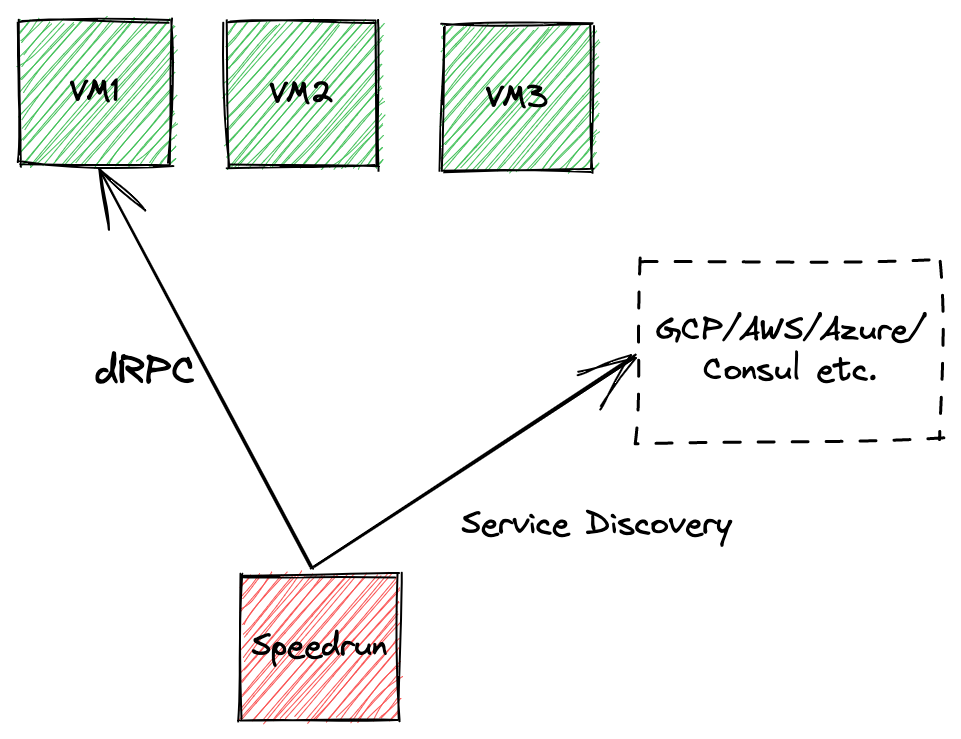
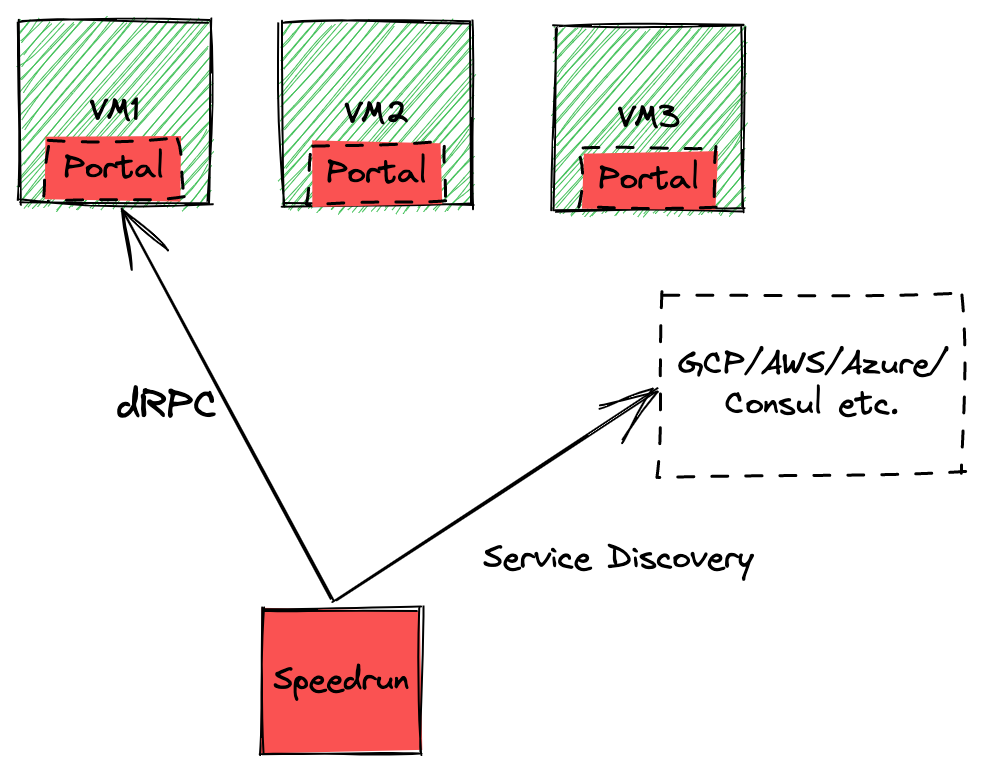
Update documentation and build configuration

diff --git a/README.md b/README.md
@@ -32,7 +32,7 @@ This project satisfies a simple need: to be able to perform certain type of oper
 
 ## Installation
 
-#### MacOS, Linux, Windows
+#### MacOS, Linux
 
 Download the precompiled binaries from here: [Releases](https://github.com/dpogorzelski/speedrun/releases)
 
@@ -63,12 +63,12 @@ speedrun run whoami --insecure
 </p>
 
 #### Speedrun
-Speedrun is the client. Speedrun is the CLI tool you run on your computer to send commands to your servers.
+Speedrun is the client. Speedrun is the CLI tool you run on your computer to send commands to your VMs.
 
 #### Portal
 Portal is the agent running on each server you want to send commands to. It will receive commands sent from Speedrun and respond with the outcome details accordingly.
 #### Service Discovery
-There is no server component in Speedrun's architecture. Service discovery is performed against native facilities of each supported provider such as GCP,AWS or Consul.
+There is no server component in Speedrun's architecture. Service discovery is performed against native facilities of each supported provider such as GCP, AWS or Consul.
 This eliminates the need to deploy,maintain and operate a server and all problems that would come with it as a consequence, such as: scalability, failure tolerance, redundancy, agent lifecycle management etc.
 ![Service Discovery](assets/service-discovery-sequence.png)
 
@@ -80,20 +80,20 @@ Communication between Speedrun and Portals is performed via [dRPC](https://githu
 Speedrun supports a flexible yet simple expression language to filter Service Discovery results (`--target`), it's based on [antonmedv/expr](https://github.com/antonmedv/expr). Full language definition can be found [here](https://github.com/antonmedv/expr/blob/master/docs/Language-Definition.md).
 
 #### Plugins
-TODO
+Plugins will allow you to add custom commands without altering the source code. This is not implemented yet.
 
 ## Examples
 
 Stop Nginx on VMs that have a label `role` with value `nginx` and a label named `project` with value `someproject`
 
 ```bash
-speedrun service stop nginx --target "labels.role == 'nginx' and labels.project == 'someproject'"
+speedrun service stop nginx --target "Labels.role == 'nginx' and Labels.project == 'someproject'"
 ```
 
 Run arbitrary shell command on the target machines. Ignore Portal's certificate and connect via private IP address.
 
 ```bash
-speedrun run "ls -la" --target "labels.env != 'prod'" --insecure --use-private-ip
+speedrun run "ls -la" --target "Labels.env != 'prod'" --insecure --use-private-ip
 ```
 
 Use a different config file
@@ -106,8 +106,8 @@ speedrun run whoami -c /path/to/config.toml
 
 Instead of supplying certain flags repeatedly you can persist their behavior in the config file. Default config file is located at `~/.speedrun/config.toml` and default settings can be fetched via `speedrun init --print`.
 
-#### Run portal as a systemd unit
-TODO
+#### Run Portal as a systemd service
+Find a sample unit [here](init/portal.service)
 
 #### Use self signed certificates during testing
 In the [scripts](scripts/) folder you can find scripts that will help you generate:

diff --git a/CHANGELOG.md b/CHANGELOG.md
@@ -1,3 +1,8 @@
+## 0.3.0-beta1 (2022-01-13)
+
+### Breaking changes
+Pretty much complete project pivot and no retro compatibility with previous versions. SSH support was dropped completely and an agent (Portal) was introduced.
+You can refer to the README for updated installation and usage info.
 
 ## 0.2.2 (2021-08-01)
 
